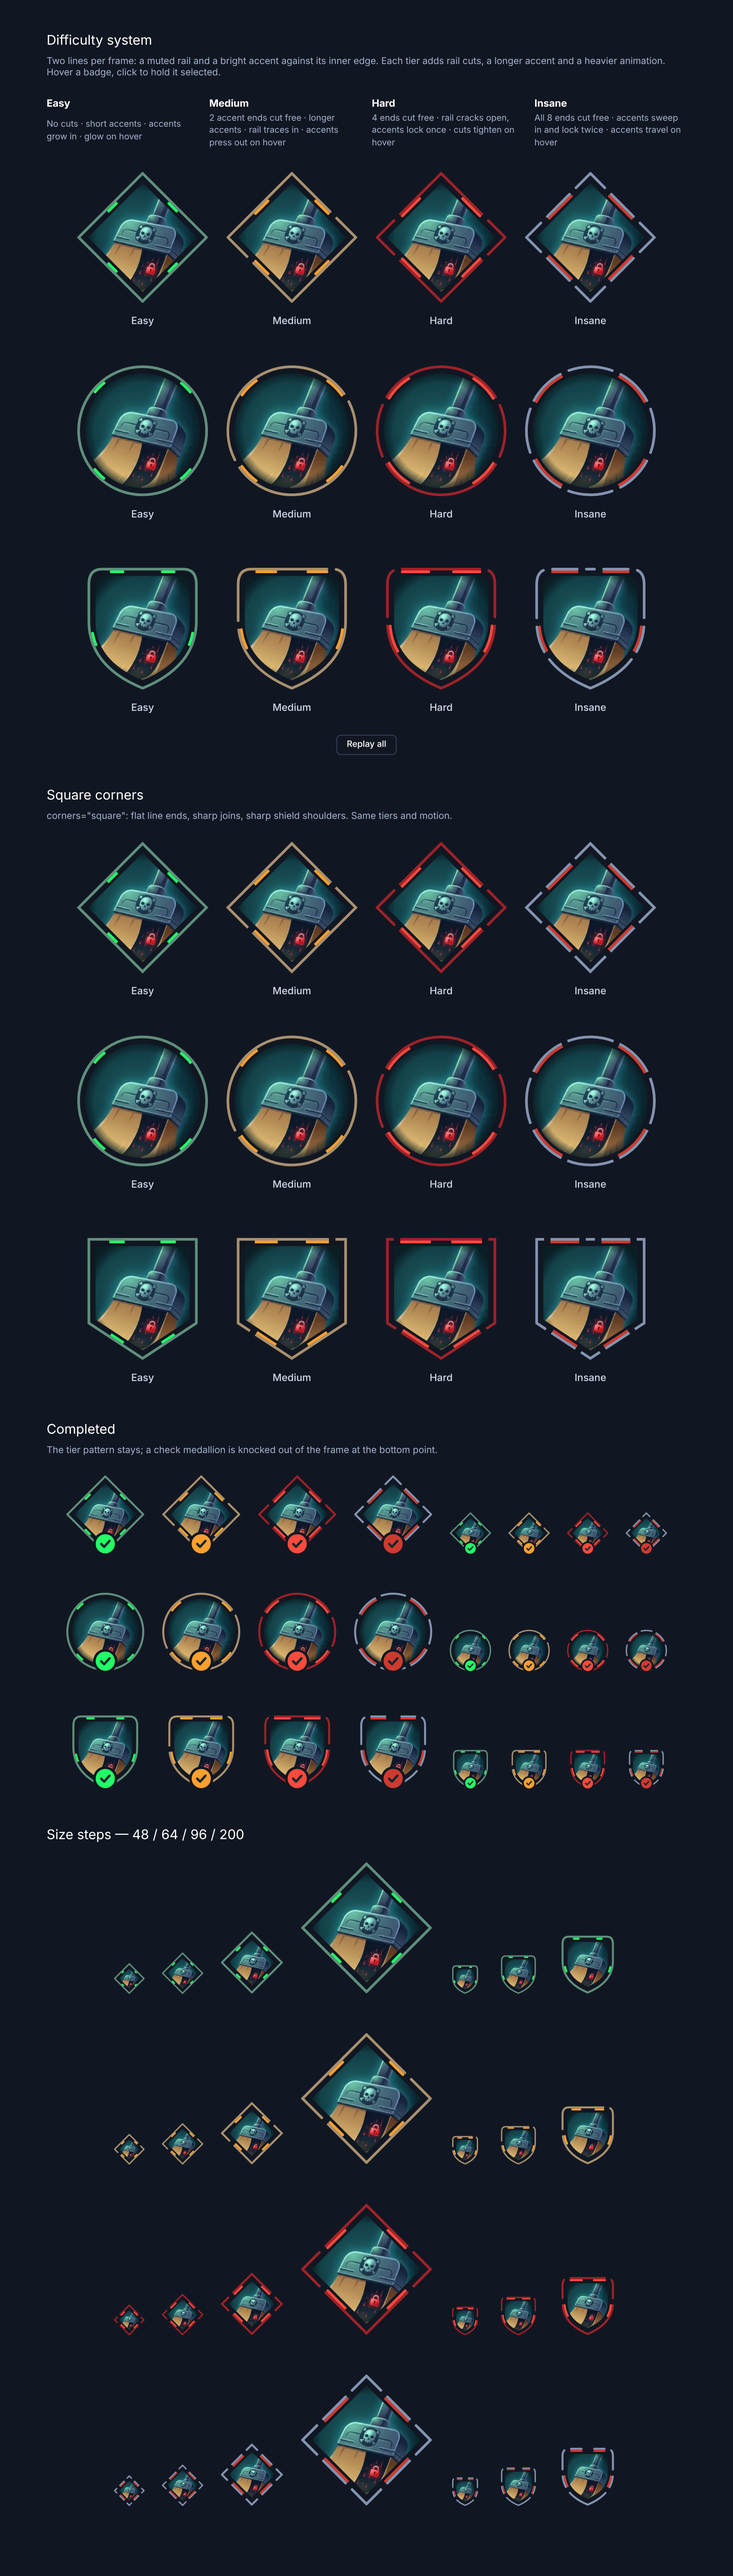
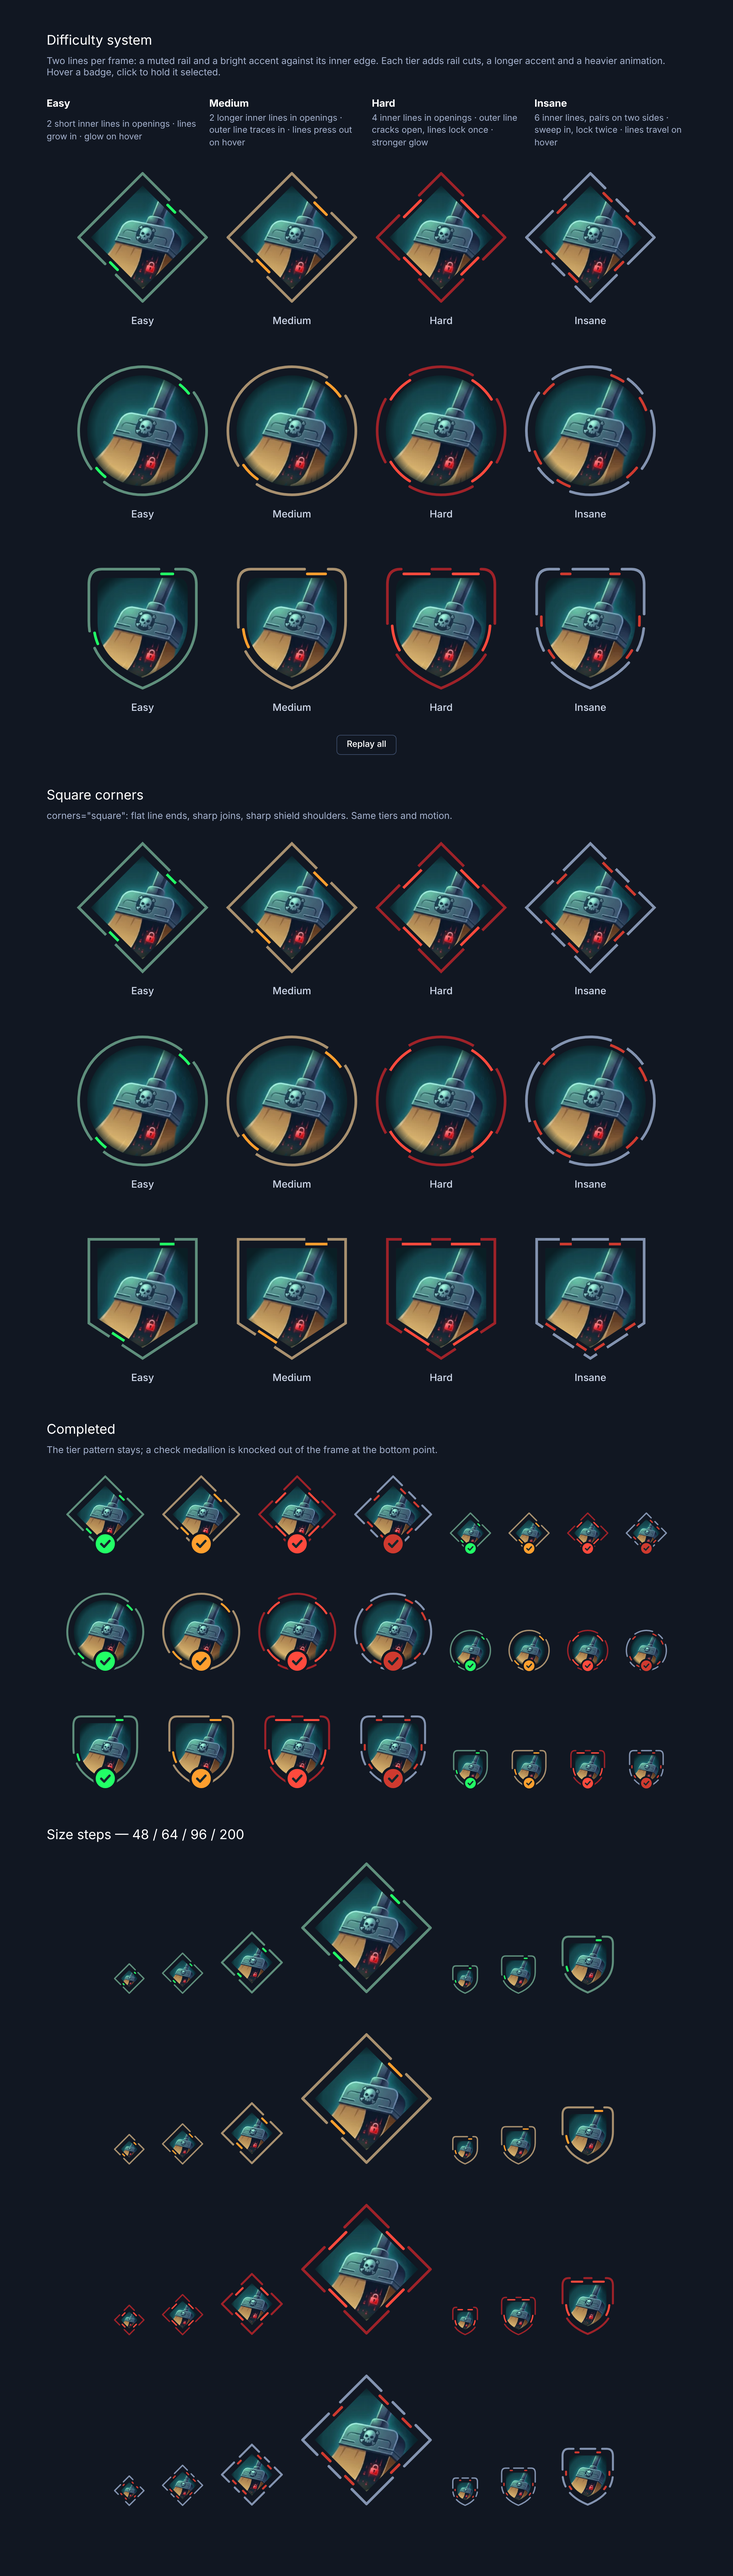
Difficulty frame: inner lines only in openings (2/2/4/6), scaled spacing, single top pair on insane shield
Claude-Session: https://claude.ai/code/session_011nxYfuYnhHf6ffMbWhu3mX

diff --git a/components/difficulty-frame/difficulty-frame.js b/components/difficulty-frame/difficulty-frame.js
@@ -4,15 +4,15 @@
  *   <htb-difficulty-frame shape="circle" difficulty="hard" src="art.png" size="96"></htb-difficulty-frame>
  *
  * Every frame is two lines:
- *   rail    a muted, tier-tinted outline, cut beside the accents at more places as difficulty rises
- *   accent  a bright tier-coloured line tucked against the rail's inner edge, centred on
- *           each side and longer as difficulty rises
+ *   rail    a muted, tier-tinted outline
+ *   inner   bright tier-coloured lines, each sitting in an opening cut into the rail,
+ *           inset from it; they exist only where the rail opens
  *
- *   tier     cut accent ends   accent length (share of a side)   entrance / hover weight
- *   easy     0           16%                               light
- *   medium   2           24%                               ↓
- *   hard     4           32%                               ↓
- *   insane   8           40%                               heaviest
+ *   tier     inner lines / openings                      entrance / hover weight
+ *   easy     2 short, on opposite sides                  light
+ *   medium   2 longer, on opposite sides                 ↓
+ *   hard     4, one per side                             ↓
+ *   insane   6, pairs on two opposite sides              heaviest
  *
  * Attributes
  *   difficulty  easy | medium | hard | insane      (default: easy)
@@ -39,12 +39,12 @@
 (() => {
   // Accent = the bright line; rail = the muted outline in the same family.
   const TIERS = {
-    // perSide: inner lines on each side · length: each one, as a share of a side ·
-    // open: sides whose inner lines sit in an opening in the rail
-    easy: { accent: ['--htb-easy', '#22ff66'], rail: ['--htb-easy-rail', '#5f8f7c'], perSide: 1, length: 0.16, open: [] },
-    medium: { accent: ['--htb-medium', '#ff9f2e'], rail: ['--htb-medium-rail', '#a8906f'], perSide: 1, length: 0.24, open: [0, 2] },
-    hard: { accent: ['--htb-hard', '#ff4a3d'], rail: ['--htb-hard-rail', '#9e2229'], perSide: 1, length: 0.32, open: [0, 1, 2, 3] },
-    insane: { accent: ['--htb-insane', '#cf3a2f'], rail: ['--htb-insane-rail', '#8393b0'], perSide: 2, length: 0.17, open: [0, 1, 2, 3] },
+    // open: sides that carry inner lines · pairs: of those, sides with two instead of one ·
+    // length: each inner line, as a share of a side
+    easy: { accent: ['--htb-easy', '#22ff66'], rail: ['--htb-easy-rail', '#5f8f7c'], open: [0, 2], pairs: [], length: 0.16 },
+    medium: { accent: ['--htb-medium', '#ff9f2e'], rail: ['--htb-medium-rail', '#a8906f'], open: [0, 2], pairs: [], length: 0.24 },
+    hard: { accent: ['--htb-hard', '#ff4a3d'], rail: ['--htb-hard-rail', '#9e2229'], open: [0, 1, 2, 3], pairs: [], length: 0.32 },
+    insane: { accent: ['--htb-insane', '#cf3a2f'], rail: ['--htb-insane-rail', '#8393b0'], open: [0, 1, 2, 3], pairs: [0, 2], length: 0.17 },
   };
   const LEVELS = Object.keys(TIERS);
   const cssColor = ([name, fallback]) => `var(${name}, ${fallback})`;
@@ -56,7 +56,7 @@
     { min: 80, stroke: 3 },
     { min: 160, stroke: 4 },
   ];
-  const SPACING = 1;           // px between the rail's inner edge and the inner line
+  const SPACING = 0.75;        // space between the rail's inner edge and the inner line (× stroke), never under 1.5px
   const PAIR_SPREAD = 0.2;     // insane: distance of each of a side's two inner lines from its centre (share of a side)
   const ART_CLEAR = 1;         // dark ring between accent and art (× stroke)
 
@@ -85,6 +85,9 @@
       // Insane inner lines are shortened here: the top edge is short and full-length
       // pairs nearly meet across it.
       length: { insane: 0.13 },
+      // The top edge is short, so insane's pairs go on the flanks (sides 1 and 2) and
+      // the top carries one line per half: a single pair across it.
+      pairs: { insane: [1, 2] },
       // Square version: sharp shoulders and a faceted bottom. The facets meet the sides
       // at y 0.45, an angle that puts them as far from the centre as the sides, so
       // the inner line keeps the same spacing all round. Its lower accents sit mid-facet.
@@ -292,8 +295,9 @@
       const c = size / 2;
       const r = c - stroke;
       // The accent touches the rail's inner edge; the art clears the accent by one stroke.
-      const accentR = r - (stroke / 2 + SPACING + accentW / 2) * shape.ring;
-      const artR = r - (stroke / 2 + SPACING + accentW + stroke * ART_CLEAR) * shape.ring;
+      const space = Math.max(stroke * SPACING, 1.5);
+      const accentR = r - (stroke / 2 + space + accentW / 2) * shape.ring;
+      const artR = r - (stroke / 2 + space + accentW + stroke * ART_CLEAR) * shape.ring;
       const accent = cssColor(tier.accent);
       const rail = cssColor(tier.rail);
       const id = `htb-clip-${Math.random().toString(36).slice(2, 9)}`;
@@ -345,19 +349,20 @@
       const bearings = (square && shape.squareSides) || shape.sides;
       const aSides = sideFractions(`${form}|accent`, accentPath, c, bearings).map((f) => f * aTotal);
 
-      // Inner lines: one centred on each side, or a pair either side of centre (insane).
+      // Inner lines: one centred on a side, or a pair either side of its centre.
       const aLen = (aTotal / 4) * (shape.length?.[level] ?? tier.length);
       const spread = (aTotal / 4) * PAIR_SPREAD;
-      const placed = aSides.flatMap((a, side) => (tier.perSide === 2 ? [a - spread, a + spread] : [a])
+      const placed = aSides.flatMap((a, side) => ((shape.pairs?.[level] ?? tier.pairs).includes(side) ? [a - spread, a + spread] : [a])
         .map((p) => ({ at: (p + aTotal) % aTotal, side })));
       const order = (list) => [...list].sort((x, y) => x.at - y.at);
-      const aCentres = order(placed);
-      setDash(accentPath, dashesAt(aCentres.map((p) => p.at), aTotal, aLen, cap));
+      // Inner lines exist only where the rail opens: on the tier's open sides the rail
+      // is cut away behind each one, so it sits in the opening, inset by `space`.
+      const opened = order(placed).filter((p) => tier.open.includes(p.side));
+      const aCentres = opened;
+      if (opened.length) setDash(accentPath, dashesAt(opened.map((p) => p.at), aTotal, aLen, cap));
+      else accentPath.remove(); // a tier with no open sides is a closed outline
       accentPath.style.setProperty('--len', aTotal);
 
-      // Openings: on the tier's open sides the rail is cut away behind each inner line,
-      // so the inner line sits in the opening, 1px inset.
-      const opened = aCentres.filter((p) => tier.open.includes(p.side));
       const spans = railSpans(`${form}|${level}|${(accentR / r).toFixed(3)}`, railPath, accentPath, opened.map((p) => p.at), aLen, total, aTotal)
         .sort((x, y) => x[0] - y[0]);
       const cuts = spans.map(([m]) => m);
@@ -393,7 +398,9 @@
 
       // Rail.
       let accentDelay = 0;
-      if (weight >= 1) {
+      // A frame without inner lines traces its outline in on its own.
+      const lines = aCentres.length > 0;
+      if (weight >= 1 || !lines) {
         const mask = this.querySelector('[data-mask]');
         railPath.setAttribute('mask', `url(#${railPath.dataset.maskId})`);
         mask.style.strokeDasharray = `${total} ${total}`;
@@ -412,30 +419,33 @@
       }
 
       // Accents grow from each side's centre (insane: sweeping in from a quarter turn back).
-      const settled = rest(accentPath);
-      const seed = dashesAt(aCentres, aTotal, Math.max(cap, 1), cap);
-      const grow = 320 + weight * 80;
-      const sweep = weight === 3;
-      const frames = sweep
-        ? [{ strokeDasharray: seed.dash, strokeDashoffset: seed.offset + aTotal / 4, opacity: 0 },
-          { opacity: 1, offset: 0.15 },
-          { strokeDasharray: seed.dash, strokeDashoffset: seed.offset, offset: 0.55 },
-          { ...settled, opacity: 1 }]
-        : [{ strokeDasharray: seed.dash, strokeDashoffset: seed.offset, opacity: 0 }, { opacity: 1, offset: 0.2 }, { ...settled, opacity: 1 }];
-      const growFor = sweep ? grow + 300 : grow;
-      accentPath.animate(frames, { duration: growFor, delay: accentDelay, easing: ease, fill: 'backwards' });
+      let lockAt = accentDelay + 380; // no inner lines: once the outline has traced in
+      if (lines) {
+        const settled = rest(accentPath);
+        const seed = dashesAt(aCentres, aTotal, Math.max(cap, 1), cap);
+        const grow = 320 + weight * 80;
+        const sweep = weight === 3;
+        const frames = sweep
+          ? [{ strokeDasharray: seed.dash, strokeDashoffset: seed.offset + aTotal / 4, opacity: 0 },
+            { opacity: 1, offset: 0.15 },
+            { strokeDasharray: seed.dash, strokeDashoffset: seed.offset, offset: 0.55 },
+            { ...settled, opacity: 1 }]
+          : [{ strokeDasharray: seed.dash, strokeDashoffset: seed.offset, opacity: 0 }, { opacity: 1, offset: 0.2 }, { ...settled, opacity: 1 }];
+        const growFor = sweep ? grow + 300 : grow;
+        accentPath.animate(frames, { duration: growFor, delay: accentDelay, easing: ease, fill: 'backwards' });
 
-      // Lock: accents press out onto the rail and settle (hard once, insane twice).
-      const lockAt = accentDelay + growFor;
-      if (weight >= 2) {
-        const press = getComputedStyle(this).getPropertyValue('--press');
-        const glow = getComputedStyle(accentPath).stroke;
-        const hit = { transform: `scale(${press})`, filter: `drop-shadow(0 0 ${stroke * 2}px ${glow})` };
-        const calm = { transform: 'scale(1)', filter: 'drop-shadow(0 0 0 transparent)' };
-        const lock = sweep
-          ? [calm, { ...hit, offset: 0.2 }, { ...calm, offset: 0.45 }, { ...hit, offset: 0.65 }, calm]
-          : [calm, { ...hit, offset: 0.35 }, calm];
-        accents.animate(lock, { duration: sweep ? 720 : 440, delay: lockAt, easing: 'ease-out' });
+        // Lock: accents press out onto the rail and settle (hard once, insane twice).
+        lockAt = accentDelay + growFor;
+        if (weight >= 2) {
+          const press = getComputedStyle(this).getPropertyValue('--press');
+          const glow = getComputedStyle(accentPath).stroke;
+          const hit = { transform: `scale(${press})`, filter: `drop-shadow(0 0 ${stroke * 2}px ${glow})` };
+          const calm = { transform: 'scale(1)', filter: 'drop-shadow(0 0 0 transparent)' };
+          const lock = sweep
+            ? [calm, { ...hit, offset: 0.2 }, { ...calm, offset: 0.45 }, { ...hit, offset: 0.65 }, calm]
+            : [calm, { ...hit, offset: 0.35 }, calm];
+          accents.animate(lock, { duration: sweep ? 720 : 440, delay: lockAt, easing: 'ease-out' });
+        }
       }
 
       if (check) {

diff --git a/components/difficulty-frame/index.html b/components/difficulty-frame/index.html
@@ -28,10 +28,10 @@
   <h2>Difficulty system</h2>
   <p class="note">Two lines per frame: a muted rail and a bright accent against its inner edge. Each tier adds rail cuts, a longer accent and a heavier animation. Hover a badge, click to hold it selected.</p>
   <div class="legend">
-    <div><strong>Easy</strong><span>4 short inner lines, outer line closed · lines grow in · glow on hover</span></div>
-    <div><strong>Medium</strong><span>2 inner lines sit in openings · outer line traces in · lines press out on hover</span></div>
-    <div><strong>Hard</strong><span>All 4 sit in openings · outer line cracks open, lines lock once · stronger glow</span></div>
-    <div><strong>Insane</strong><span>8 paired inner lines, all in openings · sweep in, lock twice · lines travel on hover</span></div>
+    <div><strong>Easy</strong><span>2 short inner lines in openings · lines grow in · glow on hover</span></div>
+    <div><strong>Medium</strong><span>2 longer inner lines in openings · outer line traces in · lines press out on hover</span></div>
+    <div><strong>Hard</strong><span>4 inner lines in openings · outer line cracks open, lines lock once · stronger glow</span></div>
+    <div><strong>Insane</strong><span>6 inner lines, pairs on two sides · sweep in, lock twice · lines travel on hover</span></div>
   </div>
   <div id="large"></div>
   <p class="actions"><button type="button" data-replay-all>Replay all</button></p>
